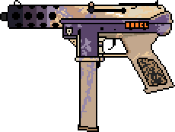
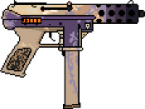
gun follows guy

diff --git a/code/sprites.py b/code/sprites.py
@@ -24,6 +24,9 @@ class Gun(pygame.sprite.Sprite):
 
         #sprite setup
         super().__init__(groups)
-        self.gun_surf = pygame.image.load(join('images', 'gun', 'gun.png'))
-        self.image
-        self.rect
+        self.gun_surf = pygame.image.load(join('images', 'gun', 'gun.png')).convert_alpha()
+        self.image = self.gun_surf
+        self.rect = self.image.get_frect(center = self.player.rect.center + self.player_direction * self.distance)
+
+    def update(self, _):
+        self.rect.center = self.player.rect.center + self.player_direction * self.distance

diff --git a/code/main.py b/code/main.py
@@ -37,6 +37,7 @@ class Game:
         for obj in map.get_layer_by_name('Entities'):
             if obj.name == 'Player':
                 self.player = Player((obj.x, obj.y), self.all_sprites, self.collision_sprites)
+                self.gun = Gun(self.player, self.all_sprites)
 
     def run(self):
         while self.running: